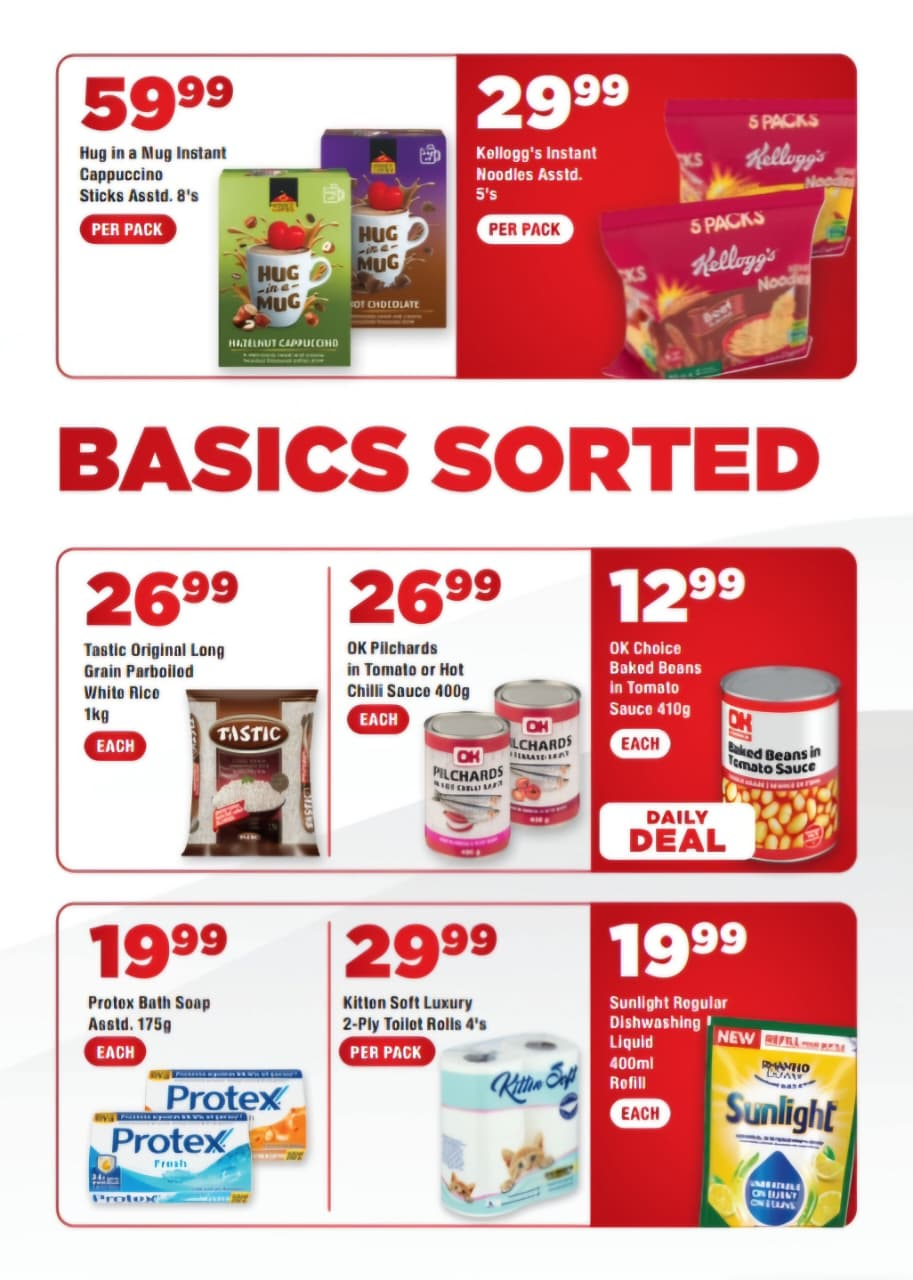
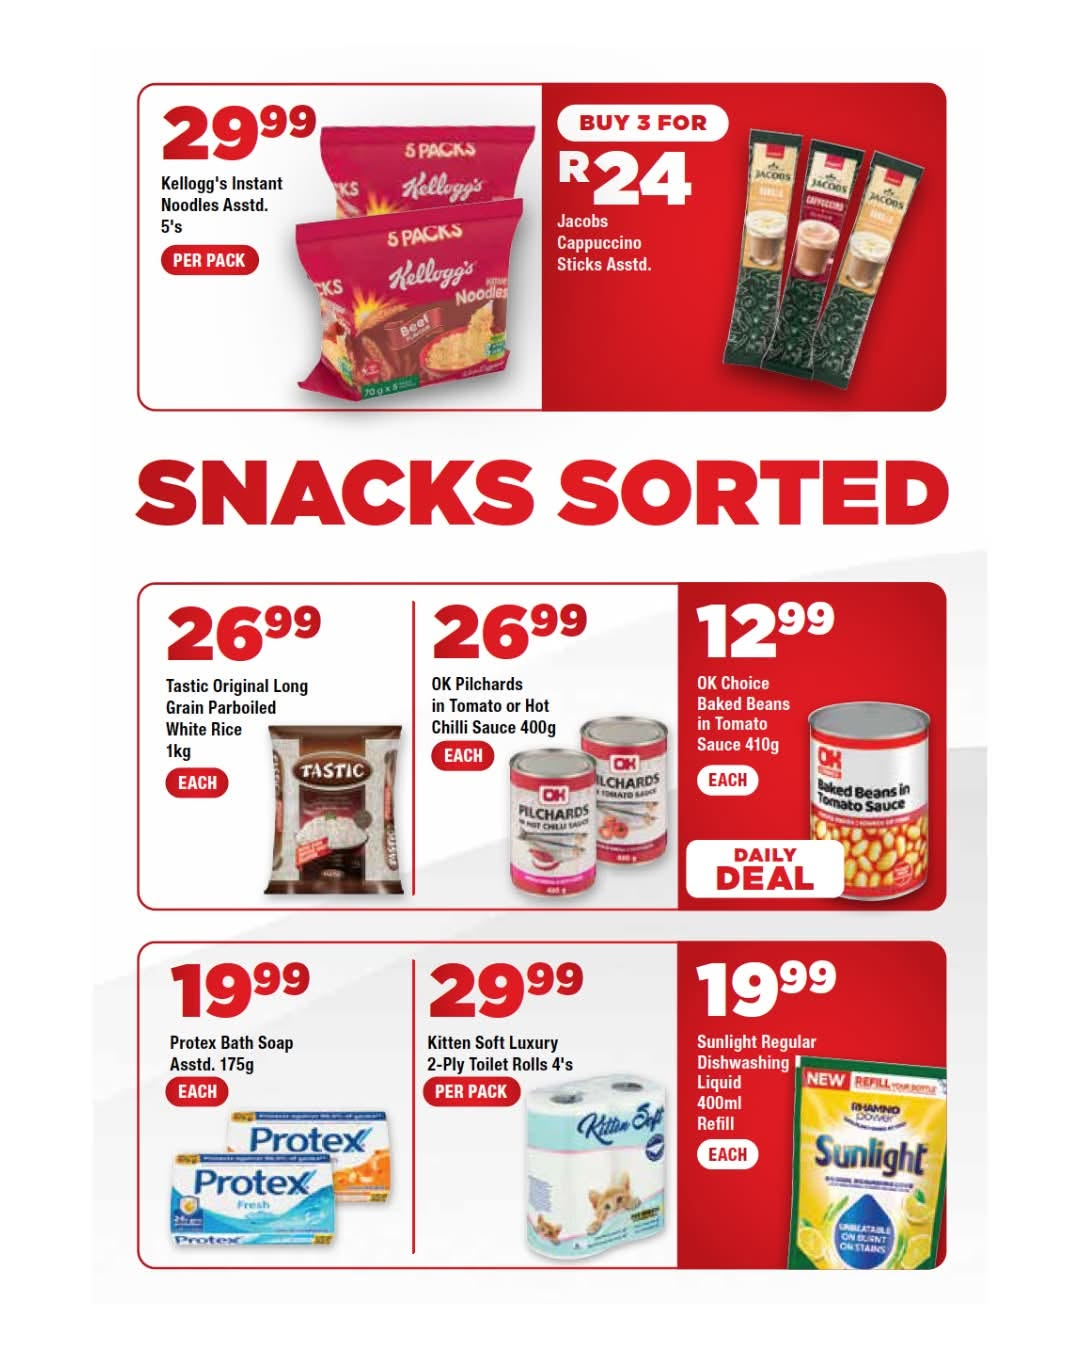
Swap slideshow images to latest campaign (3 Aug - 6 Sep 2026)

diff --git a/index.html b/index.html
@@ -9,7 +9,7 @@
 <body>
   <header>
     <h1>Emkhatsini Specials</h1>
-    <p class="dates">Prices valid 6 July &ndash; 2 August 2026</p>
+    <p class="dates">Prices valid 3 August &ndash; 6 September 2026</p>
   </header>
 
   <main class="slideshow">
@@ -23,6 +23,9 @@
       <div class="slide">
         <img src="assets/slide-3.jpg" alt="Emkhatsini specials flyer page 3">
       </div>
+      <div class="slide">
+        <img src="assets/slide-4.jpg" alt="Emkhatsini specials flyer page 4">
+      </div>
     </div>
 
     <button class="nav prev" aria-label="Previous slide">&#10094;</button>
@@ -32,6 +35,7 @@
       <span class="dot active" data-index="0"></span>
       <span class="dot" data-index="1"></span>
       <span class="dot" data-index="2"></span>
+      <span class="dot" data-index="3"></span>
     </div>
   </main>
 
